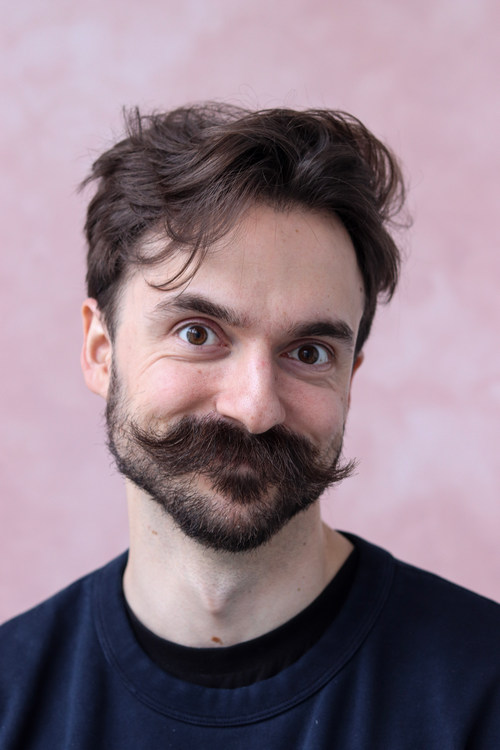
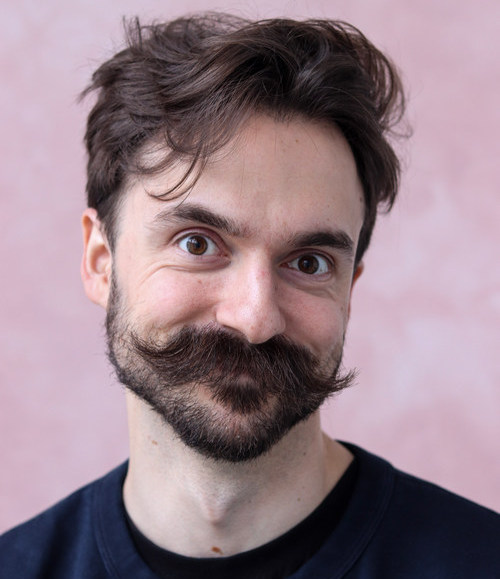
Correct photos size, names / hide Header in desktop / add photos to Bio / refactor cooperators.ts

diff --git a/apps/web/app/lib/cooperators.ts b/apps/web/app/lib/cooperators.ts
@@ -1,10 +1,22 @@
+import { StaticImageData } from "next/image";
+
+// Import all cooperator images
+import PiotrKlauzaImage from "@/app/assets/images/cooperators/piotr_klauza.jpg";
+import AdriannaUrbanskaImage from "@/app/assets/images/cooperators/adrianna_urbanska.jpeg";
+import KirylPietruczukImage from "@/app/assets/images/cooperators/kiryl_pietruczuk.jpeg";
+import OlgaBuryImage from "@/app/assets/images/cooperators/olga_bury.jpg";
+import PiotrStanekImage from "@/app/assets/images/cooperators/piotr_stanek.jpg";
+import MateuszWierzbickiImage from "@/app/assets/images/cooperators/mateusz_wierzbicki.jpg";
+import BogumilaTrzeciakowskaImage from "@/app/assets/images/cooperators/bogumła_trzeciakowska.jpeg";
+import OliwiaAdamowiczImage from "@/app/assets/images/cooperators/oliwia_adamowicz.jpeg";
+
 // Cooperators data structure and mock data
 export interface Cooperator {
   id: number;
   name: string;
   surname: string;
   description: string;
-  image?: string;
+  image?: StaticImageData;
   socialMedia: {
     instagram?: string;
     facebook?: string;
@@ -23,7 +35,7 @@ export const cooperators: Cooperator[] = [
     surname: "KLAUZA",
     description:
       "Współtwórca Fundacji. Specjalista w dziedzinie przestrzennych systemów nagłośnieniowych. Absolwent Wydziału Reżyserii Dźwięku na Uniwersytecie Muzycznym Fryderyka Chopina w Warszawie i absolwent Zespołu Szkół Muzycznych II stopnia im. Ignacego Paderewskiego w Białymstoku w klasie wiolonczeli.",
-    image: "/assets/images/cooperators/piotr_klauza.jpg",
+    image: PiotrKlauzaImage,
     socialMedia: {
       instagram: "https://instagram.com",
       facebook: "https://facebook.com",
@@ -39,7 +51,7 @@ export const cooperators: Cooperator[] = [
     surname: "URBAŃSKA",
     description:
       "Twórczyni, z którą eksplorujemy formy obecności sztuki w przestrzeniach analogowych i wirtualnych. Współpracujemy przy projektach łączących sztukę, przestrzeń i narrację, tworząc wielowarstwowe doświadczenia wizualne.",
-    image: "/assets/images/cooperators/adrianna_urbanska.jpg",
+    image: AdriannaUrbanskaImage,
     socialMedia: {
       instagram: "https://www.instagram.com/au___aua",
       facebook: "https://www.facebook.com/aua.adrianna.urbanska",
@@ -56,7 +68,7 @@ export const cooperators: Cooperator[] = [
     name: "KIRYŁ",
     surname: "PIETRUCZUK",
     description: "Aktor, absolwent wydziału aktorskiego Łódzkiej Szkoły Filmowej. Wspólpracuje z Fundacją w projektach teatralnych.",
-    image: "/assets/images/cooperators/kirył_pietruczuk.jpg",
+    image: KirylPietruczukImage,
     socialMedia: {
       instagram: "https://www.instagram.com/kirylpietruczuk/?hl=en",
       facebook: "https://facebook.com",
@@ -72,7 +84,7 @@ export const cooperators: Cooperator[] = [
     surname: "BURY",
     description:
       "Aktorka, tancerka, choreografka. Ukończyła studia dziennikarskie. Absolwentka Akademii Sztuk Teatralnych im. Stanisława Wyspiańskiego w Krakowie, Wydziału Teatru Tańca w Bytomiu. Działa jako niezależna twórczyni, interesuje ją łączenie sztuki tańca, filmu i opery oraz to w jaki sposób przestrzeń wpływa na odbieraną sztukę.",
-    image: "/assets/images/cooperators/olga_bury.jpg",
+    image: OlgaBuryImage,
     socialMedia: {
       instagram: "https://www.instagram.com/olgabury_",
       facebook: "https://www.facebook.com/share/1CdpMbG45K/?mibextid=wwXIfr",
@@ -88,7 +100,7 @@ export const cooperators: Cooperator[] = [
     surname: "STANEK",
     description:
       "Działa jako niezależny twórca w obszarze teatru, choreografii, filmu oraz opery.  Absolwent Akademii Sztuk Teatralnych im. Stanisława Wyspiańskiego w Krakowie, Wydziału Teatru Tańca w Bytomiu. Współpracuje z Teatrem O.de.la, kolektywem Sticky Fingers Club.",
-    image: "/assets/images/cooperators/piotr_stanek.jpg",
+    image: PiotrStanekImage,
     socialMedia: {
       instagram: "https://www.instagram.com/piotrstanek_",
       facebook: "https://www.facebook.com/share/1CbZ43WK1J/?mibextid=wwXIfr",
@@ -104,7 +116,7 @@ export const cooperators: Cooperator[] = [
     surname: "WIERZBICKI",
     description:
       "Tancerz, aktor, choreograf, absolwent Wydziału Teatru Tańca Akademii Sztuk Teatralnych im. St. Wyspiańskiego w Krakowie.Ukończył także Szkołę Aktorską Haliny i Jana Machulskich w Warszawie oraz studiował dziennikarstwo na Uniwersytecie Kardynała Stefana Wyszyńskiego. Wraz z Janem Łuciem i Fundacją Bez Kontekstu współtworzył monodram “Gangliony, Gangliony...” i spektakl “Copy of Copy of NPC”, które powstały w ramach programu Przestrzenie Sztuki.",
-    image: "/assets/images/cooperators/mateusz_wierzbicki.jpg",
+    image: MateuszWierzbickiImage,
     socialMedia: {
       instagram: "https://www.instagram.com",
       facebook: "https://www.facebook.com/profile.php?id=100007072501564",
@@ -120,7 +132,7 @@ export const cooperators: Cooperator[] = [
     surname: "TRZECIAKOWSKA",
     description:
       "Aktorka, autorka tekstów, uwielbia improwizację oraz eksperymenty w obszarze sztuki. Zgłębia psychologię granych przez siebie postaci bardziej, niż wydawałoby się to możliwe. W spektaklach docenia intertekstualność oraz wszelki absurd.",
-    image: "/assets/images/cooperators/bogumila_trzeciakowska.jpg",
+    image: BogumilaTrzeciakowskaImage,
     socialMedia: {
       instagram: "https://www.instagram.com",
       facebook: "https://www.facebook.com",
@@ -136,7 +148,7 @@ export const cooperators: Cooperator[] = [
     surname: "ADAMOWICZ",
     description:
       "Dyplomowana perkusista, pianistka i rytmiczka. Absolwentka Wydziału Aktorskiego PWSFTviT w Łodzi oraz Wydziału Wiedzy o Teatrze (specjalność: Zarządzanie Instytucjami Kultury) na Akademii Teatralnej w Warszawie. ",
-    image: "/assets/images/cooperators/olivia_adamowicz.jpg",
+    image: OliwiaAdamowiczImage,
     socialMedia: {
       instagram: "https://www.instagram.com/heyimoliw/",
       facebook: "https://www.facebook.com",
@@ -171,3 +183,23 @@ export function getNextCooperatorId(currentId: number): number | null {
   if (currentIndex === -1 || currentIndex >= cooperators.length - 1) return null;
   return cooperators[currentIndex + 1].id;
 }
+
+// Map cooperator IDs to imported images
+const cooperatorImages: { [key: number]: StaticImageData } = {
+  1: PiotrKlauzaImage,
+  2: AdriannaUrbanskaImage,
+  3: KirylPietruczukImage,
+  4: OlgaBuryImage,
+  5: PiotrStanekImage,
+  6: MateuszWierzbickiImage,
+  7: BogumilaTrzeciakowskaImage,
+  8: OliwiaAdamowiczImage,
+};
+
+// Function to get cooperator image by ID
+export function getCooperatorImage(id: number): StaticImageData | null {
+  return cooperatorImages[id] || null;
+}
+
+// Export the images mapping for direct access if needed
+export { cooperatorImages };

diff --git a/apps/web/app/components/Navigation.tsx b/apps/web/app/components/Navigation.tsx
@@ -13,6 +13,7 @@ const navigationItems: NavItem[] = [
   { title: "WSPÓŁPRACE", href: "/cooperators" },
   { title: "DLA DARCZYŃCÓW", href: "/donators" },
   { title: "KONTAKT", href: "/contact" },
+  { title: "MUZYKA", href: "/music" },
 ];
 
 export function Navigation() {
@@ -40,7 +41,7 @@ export function Navigation() {
       <div className="max-w-7xl mx-auto px-4 sm:px-6 lg:px-8">
         <div className="flex justify-center h-16">
           {/* Desktop Navigation */}
-          <div className="hidden absolute md:flex items-center space-x-8">
+          <div className="hidden absolute md:hidden lg:flex items-center space-x-8">
             {navigationItems.map((item) => (
               <Link
                 key={item.href}
@@ -55,20 +56,22 @@ export function Navigation() {
 
         {/* Mobile Navigation Container */}
         {!isProjectDetailPage && !isCooperatorDetailPage && (
-          <div className="md:hidden w-full top-0 flex justify-center">
-            {/* Animated menu button with gray line */}
-            <div
-              className={`${isMenuOpen ? "fixed" : "absolute"} z-[9999] transition-all duration-200 ease-in-out w-full max-w-full ${
-                isHomePage ? (isMenuOpen ? "top-[418px]" : "top-[120px]") : isMenuOpen ? "top-[420px]" : "top-[220px]"
-              }`}
-            >
-              <div className="flex items-center justify-center w-full relative">
-                <div className="absolute top-[-33px] left-0 right-0 flex justify-center h-[35px] border-b-1 border-gray-700"></div>
-                <button onClick={() => setIsMenuOpen(!isMenuOpen)} className="z-100 absolute top-[-21px] flex justify-center">
-                  <Image src={MobileMenuIcon} alt="Bez Kontekstu" className={`w-12 h-12 top-[-28px] `} />
-                </button>
+          <div className="w-full lg:hidden top-0 flex justify-center">
+            {/* Menu button when closed */}
+            {!isMenuOpen && (
+              <div
+                className={`absolute z-[9999] transition-all duration-200 ease-in-out w-full max-w-full ${
+                  isHomePage ? "top-[120px]" : "top-[220px]"
+                }`}
+              >
+                <div className="flex items-center justify-center w-full relative">
+                  <div className="absolute top-[-33px] left-0 right-0 flex justify-center h-[35px] border-b-1 border-gray-700"></div>
+                  <button onClick={() => setIsMenuOpen(!isMenuOpen)} className="z-100 absolute top-[-21px] flex justify-center">
+                    <Image src={MobileMenuIcon} alt="Bez Kontekstu" className={`w-12 h-12 top-[-28px] `} />
+                  </button>
+                </div>
               </div>
-            </div>
+            )}
 
             {/* Animated menu  */}
             <div
@@ -77,7 +80,7 @@ export function Navigation() {
                 top: 0,
                 left: 0,
                 right: 0,
-                height: "420px",
+                minHeight: "420px",
               }}
             >
               {/* Menu items */}
@@ -127,6 +130,16 @@ export function Navigation() {
                         ENG
                       </span>
                     </div>
+                  </div>
+                </div>
+
+                {/* Close button at the bottom of menu */}
+                <div className="flex justify-center pt-6 pb-0">
+                  <div className="flex items-center justify-center w-full relative">
+                    <div className="absolute top-[-33px] left-0 right-0 flex justify-center h-[35px] border-b-1 border-gray-700"></div>
+                    <button onClick={() => setIsMenuOpen(false)} className="z-100 absolute top-[-21px] flex justify-center">
+                      <Image src={MobileMenuIcon} alt="Bez Kontekstu" className={`w-12 h-12 top-[-28px] `} />
+                    </button>
                   </div>
                 </div>
               </div>

diff --git a/apps/web/app/(pages)/cooperators/[id]/page.tsx b/apps/web/app/(pages)/cooperators/[id]/page.tsx
@@ -3,12 +3,11 @@ import * as React from "react";
 import Image, { StaticImageData } from "next/image";
 import Link from "next/link";
 import { notFound } from "next/navigation";
-import { getCooperatorById, getPreviousCooperatorId, getNextCooperatorId } from "@/app/lib/cooperators";
+import { getCooperatorById, getPreviousCooperatorId, getNextCooperatorId, getCooperatorImage } from "@/app/lib/cooperators";
 import { Footer } from "@/app/components/Footer";
 import LogoViolet from "@/app/assets/images/logo_violet.png";
 import ArrowRight from "@/app/assets/icons/next.png";
 import ArrowLeft from "@/app/assets/icons/prev.png";
-import CatImage from "@/app/assets/images/cooperators/cat.png";
 
 interface CooperatorPageProps {
   params: Promise<{
@@ -29,17 +28,8 @@ export default function CooperatorBioPage({ params }: CooperatorPageProps) {
 
   const cooperator = getCooperatorById(id);
 
-  // Map cooperator IDs to imported images
-  const cooperatorImages: { [key: number]: StaticImageData } = {
-    1: CatImage,
-    // Add more images here as you import them
-    // 2: AnnaImage,
-    // 3: PiotrImage,
-    // 4: MariaImage,
-  };
-
   // Get the image for current cooperator
-  const cooperatorImage = cooperator ? cooperatorImages[cooperator.id] : null;
+  const cooperatorImage = cooperator ? getCooperatorImage(cooperator.id) : null;
 
   if (!cooperator) {
     notFound();
@@ -76,6 +66,7 @@ export default function CooperatorBioPage({ params }: CooperatorPageProps) {
                 src={cooperatorImage}
                 alt={`Image of ${cooperator.name}`}
                 width={800}
+                height={250}
                 className="w-full h-full object-cover object-top"
                 sizes="(max-width: 768px) 100vw, (max-width: 1200px) 85vw, 85vw"
                 priority={cooperator.id <= 2}
@@ -135,7 +126,7 @@ export default function CooperatorBioPage({ params }: CooperatorPageProps) {
         {/* Projects Section */}
         <div className="mb-12">
           <h3 className="text-base mb-4 font-bold">projekty:</h3>
-          <div className="flex flex-col gap-2">
+          <div className="flex flex-col gap-2 space-y-2">
             {cooperator.projects.map((project, index) => (
               <div key={index} className="text-sm">
                 <span>
@@ -146,11 +137,10 @@ export default function CooperatorBioPage({ params }: CooperatorPageProps) {
           </div>
         </div>
       </div>
-
       {/* ------------------------------------ */}
 
       {/* Cooperator Navigation */}
-      <div className="px-8 text-sm pt-10">
+      <div className="relative px-8 text-sm pt-10 z-10">
         <div className="flex justify-around items-center">
           {/* Previous Cooperator */}
           <div>

diff --git a/apps/web/app/(pages)/cooperators/page.tsx b/apps/web/app/(pages)/cooperators/page.tsx
@@ -1,18 +1,11 @@
 import { Footer } from "@/app/components/Footer";
 import { Header } from "@/app/components/Header";
-import { getAllCooperators } from "@/app/lib/cooperators";
+import { getAllCooperators, getCooperatorImage } from "@/app/lib/cooperators";
 import Image from "next/image";
 import Link from "next/link";
-import CatImage from "@/app/assets/images/cooperators/cat.png";
-import type { StaticImageData } from "next/image";
 
 export default function CooperatorsPage() {
   const cooperators = getAllCooperators();
-
-  // Map project IDs to imported poster images
-  const posterImages: { [key: number]: StaticImageData } = {
-    1: CatImage,
-  };
 
   return (
     <div className="bg-[#0d0b0e] px-5">
@@ -23,7 +16,7 @@ export default function CooperatorsPage() {
         <div className="w-[85vw] text-center text-md sm:text-3xl md:text-4xl lg:text-5xl ">
           <div className="w-100%] mx-auto flex flex-col gap-y-14 font-defectica">
             {cooperators.map((cooperator) => {
-              const posterImage = posterImages[cooperator.id];
+              const cooperatorImage = getCooperatorImage(cooperator.id);
 
               return (
                 <Link
@@ -32,12 +25,13 @@ export default function CooperatorsPage() {
                   className="block transition-transform duration-200 hover:scale-105"
                 >
                   <div className="relative w-full h-[250px] mb-5 cursor-pointer overflow-hidden">
-                    {posterImage ? (
+                    {cooperatorImage ? (
                       <Image
-                        src={posterImage}
-                        alt={`Image of ${cooperator.name}`}
+                        src={cooperatorImage}
+                        alt={`Image of ${cooperator.name} ${cooperator.surname}`}
                         width={800}
-                        className="w-full h-full object-cover object-top"
+                        height={250}
+                        className="w-full h-full object-cover object-top md:object-center"
                         sizes="(max-width: 768px) 100vw, (max-width: 1200px) 85vw, 85vw"
                         priority={cooperator.id <= 2}
                       />

diff --git a/apps/web/app/components/Header.tsx b/apps/web/app/components/Header.tsx
@@ -13,7 +13,7 @@ export function Header({ title = "", showLogo = true, showTitle = true }: Header
   const titleWords = title.split(" ");
 
   return (
-    <>
+    <div className="lg:hidden">
       {/* Title Section */}
       {showTitle && (
         <div className="flex justify-between items-center my-10 mx-4 z-10">
@@ -37,6 +37,6 @@ export function Header({ title = "", showLogo = true, showTitle = true }: Header
           />
         </div>
       )}
-    </>
+    </div>
   );
 }
